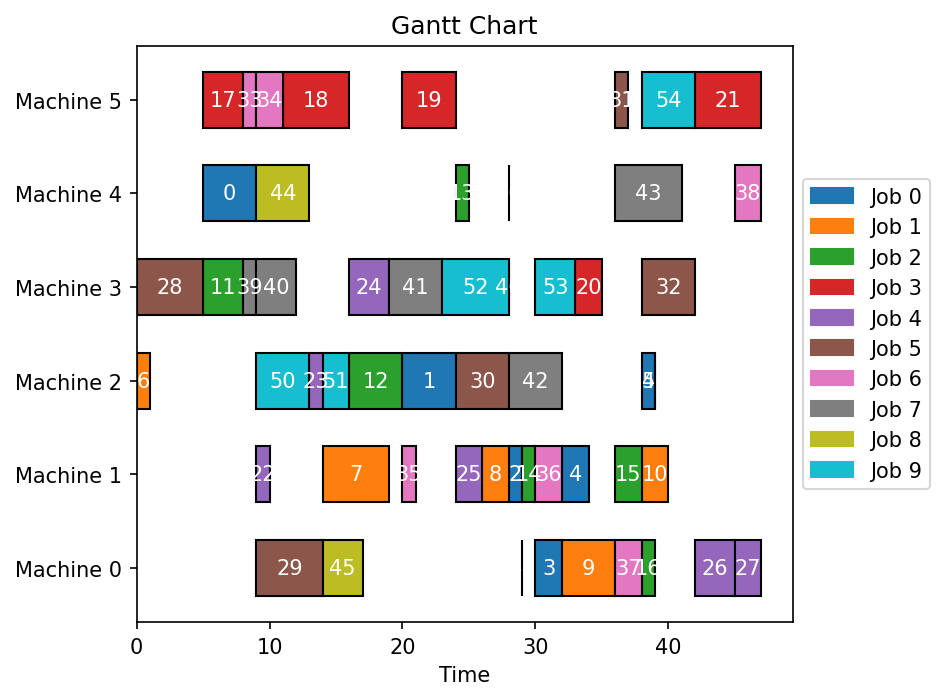
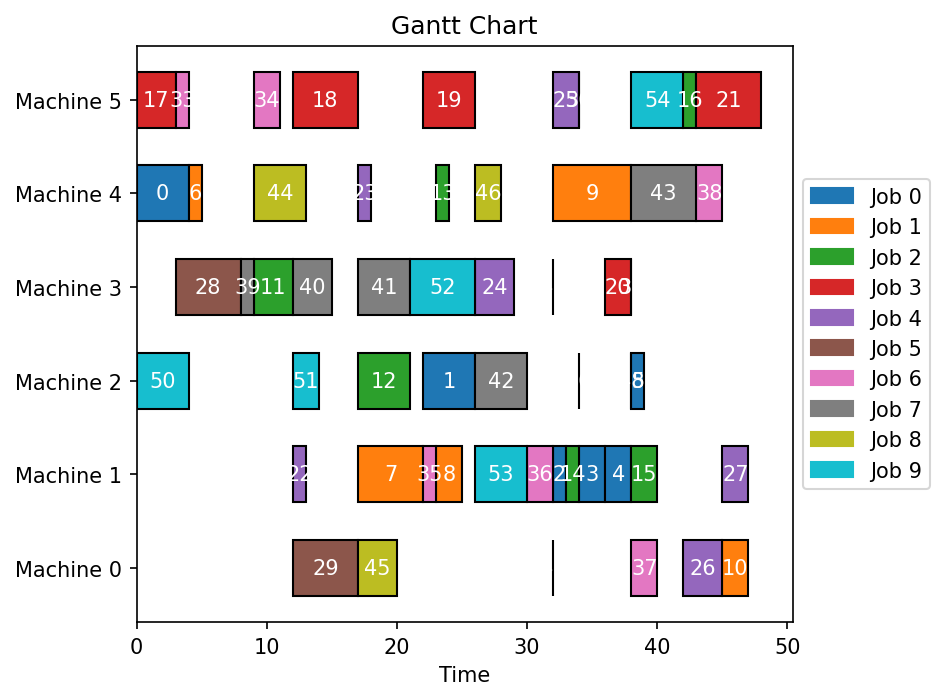
Fixed scheduling error

diff --git a/code/scheduling/schedule.py b/code/scheduling/schedule.py
@@ -231,20 +231,23 @@ def do_actions(actions, n_machines, td, env):
 
     for action in actions:
         # machine index that this action refers to
-        ma_to_use = (action - 0) % n_machines
+        ma_to_use = (action - 1) % n_machines
 
-        while td["busy_until"][-1, ma_to_use].item() > td["time"].item():
-            invalid_action = torch.tensor([-1])  
+        while td["busy_until"][0, ma_to_use].item() > td["time"].item():
+            invalid_action = torch.tensor([0])  
             td["action"] = invalid_action
 
             td = env.step(td)["next"]
-            env.render(td, -1)
+            env.render(td, 0)
 
-        if action != -1:
+        if action != 0:
             td["action"] = torch.tensor([action])
             td = env.step(td)["next"]
-            env.render(td, -1)
+            env.render(td, 0)
     return td
+
+
+
 
 
 def inferenced_schedule( assignments, order: bool, env, td, path_save_image: str, n_jobs: int, n_machines: int, error_list, ops_sequence_order):
@@ -278,8 +281,13 @@ def inferenced_schedule( assignments, order: bool, env, td, path_save_image: str
         for td in tds
     ]
 
+    print("")
     print(f"makespans: {makespans}")
-    print(f"best makespan: {min(makespans)}")
+    print("")
+    print(f"lowest makespan: {min(makespans)}")
+    print(f"highestmakespan: {max(makespans)}")
+    print(f"Average makespan: {sum(makespans) / len(makespans)}")
+
     td_best = tds[ makespans.index( min(makespans) ) ]
     env.render(td_best, 0)
     if path_save_image:

diff --git a/code/inference/main.py b/code/inference/main.py
@@ -105,7 +105,7 @@ def get_inference_result(problem_type, instance_idx, model_type, order: bool):
         print("beginning on cache")
         threshold = 0.02
         # SAMPLES
-        n_samples = 32
+        n_samples = 64
         n_ops = int(torch.count_nonzero(target_assignments))
 
         # === DDIM
